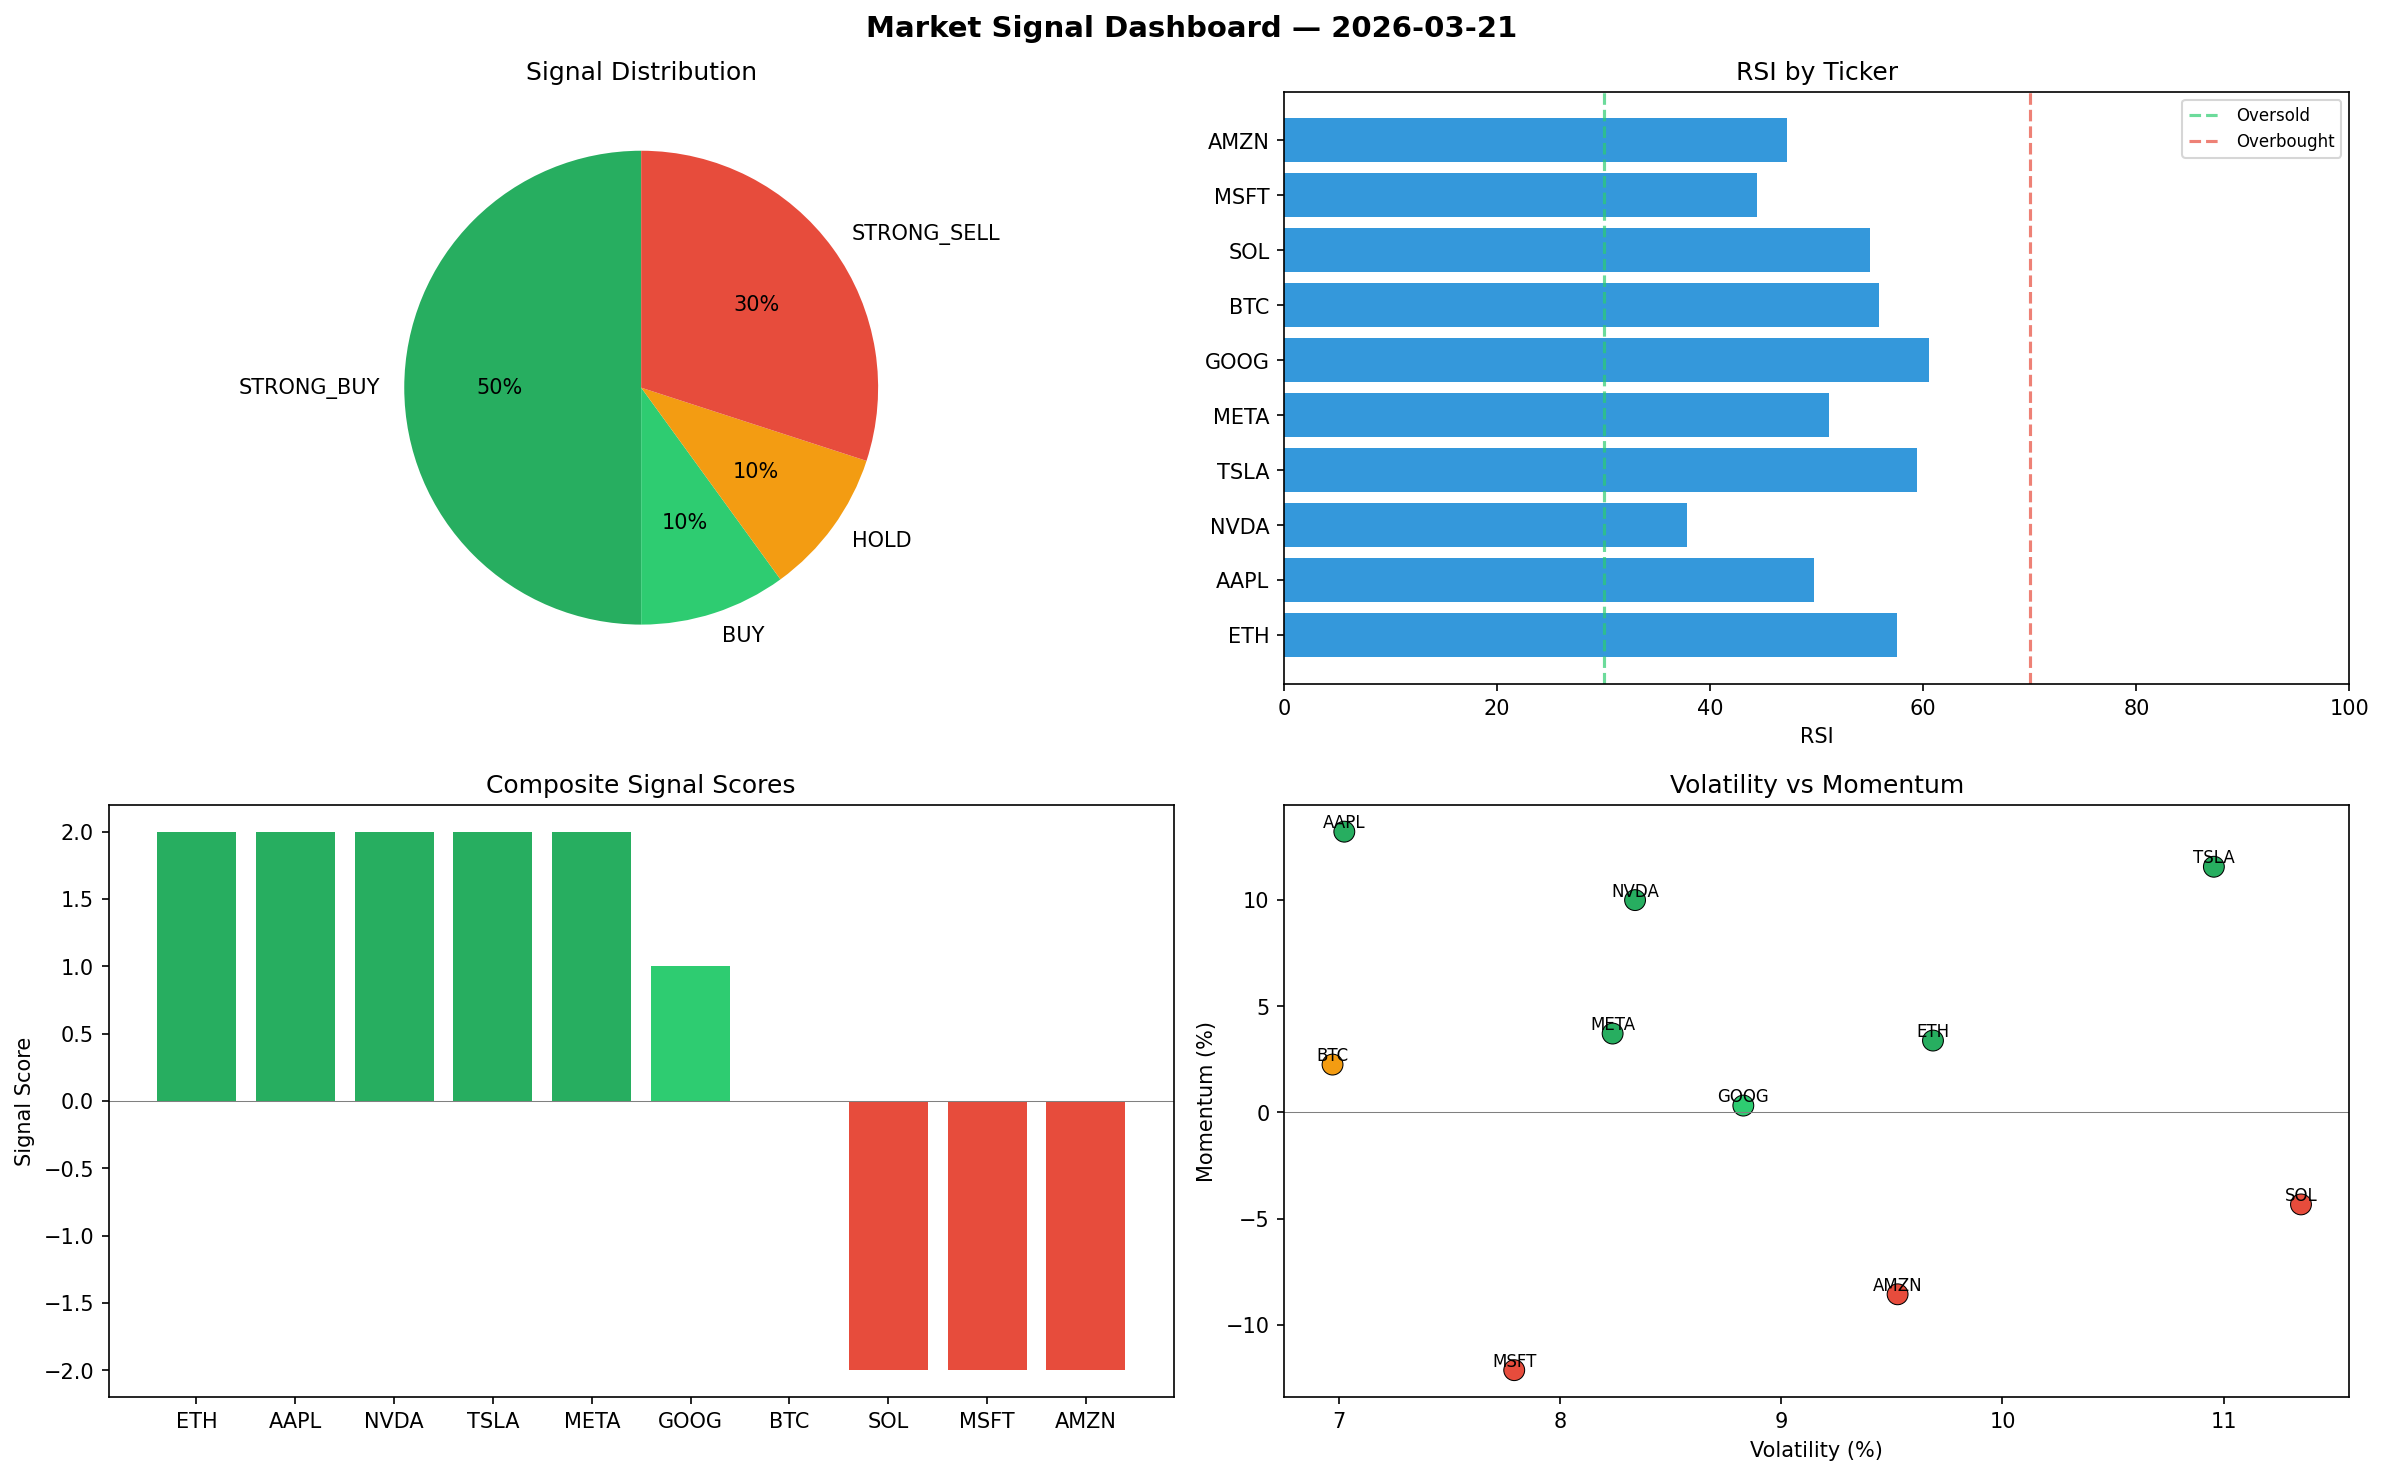
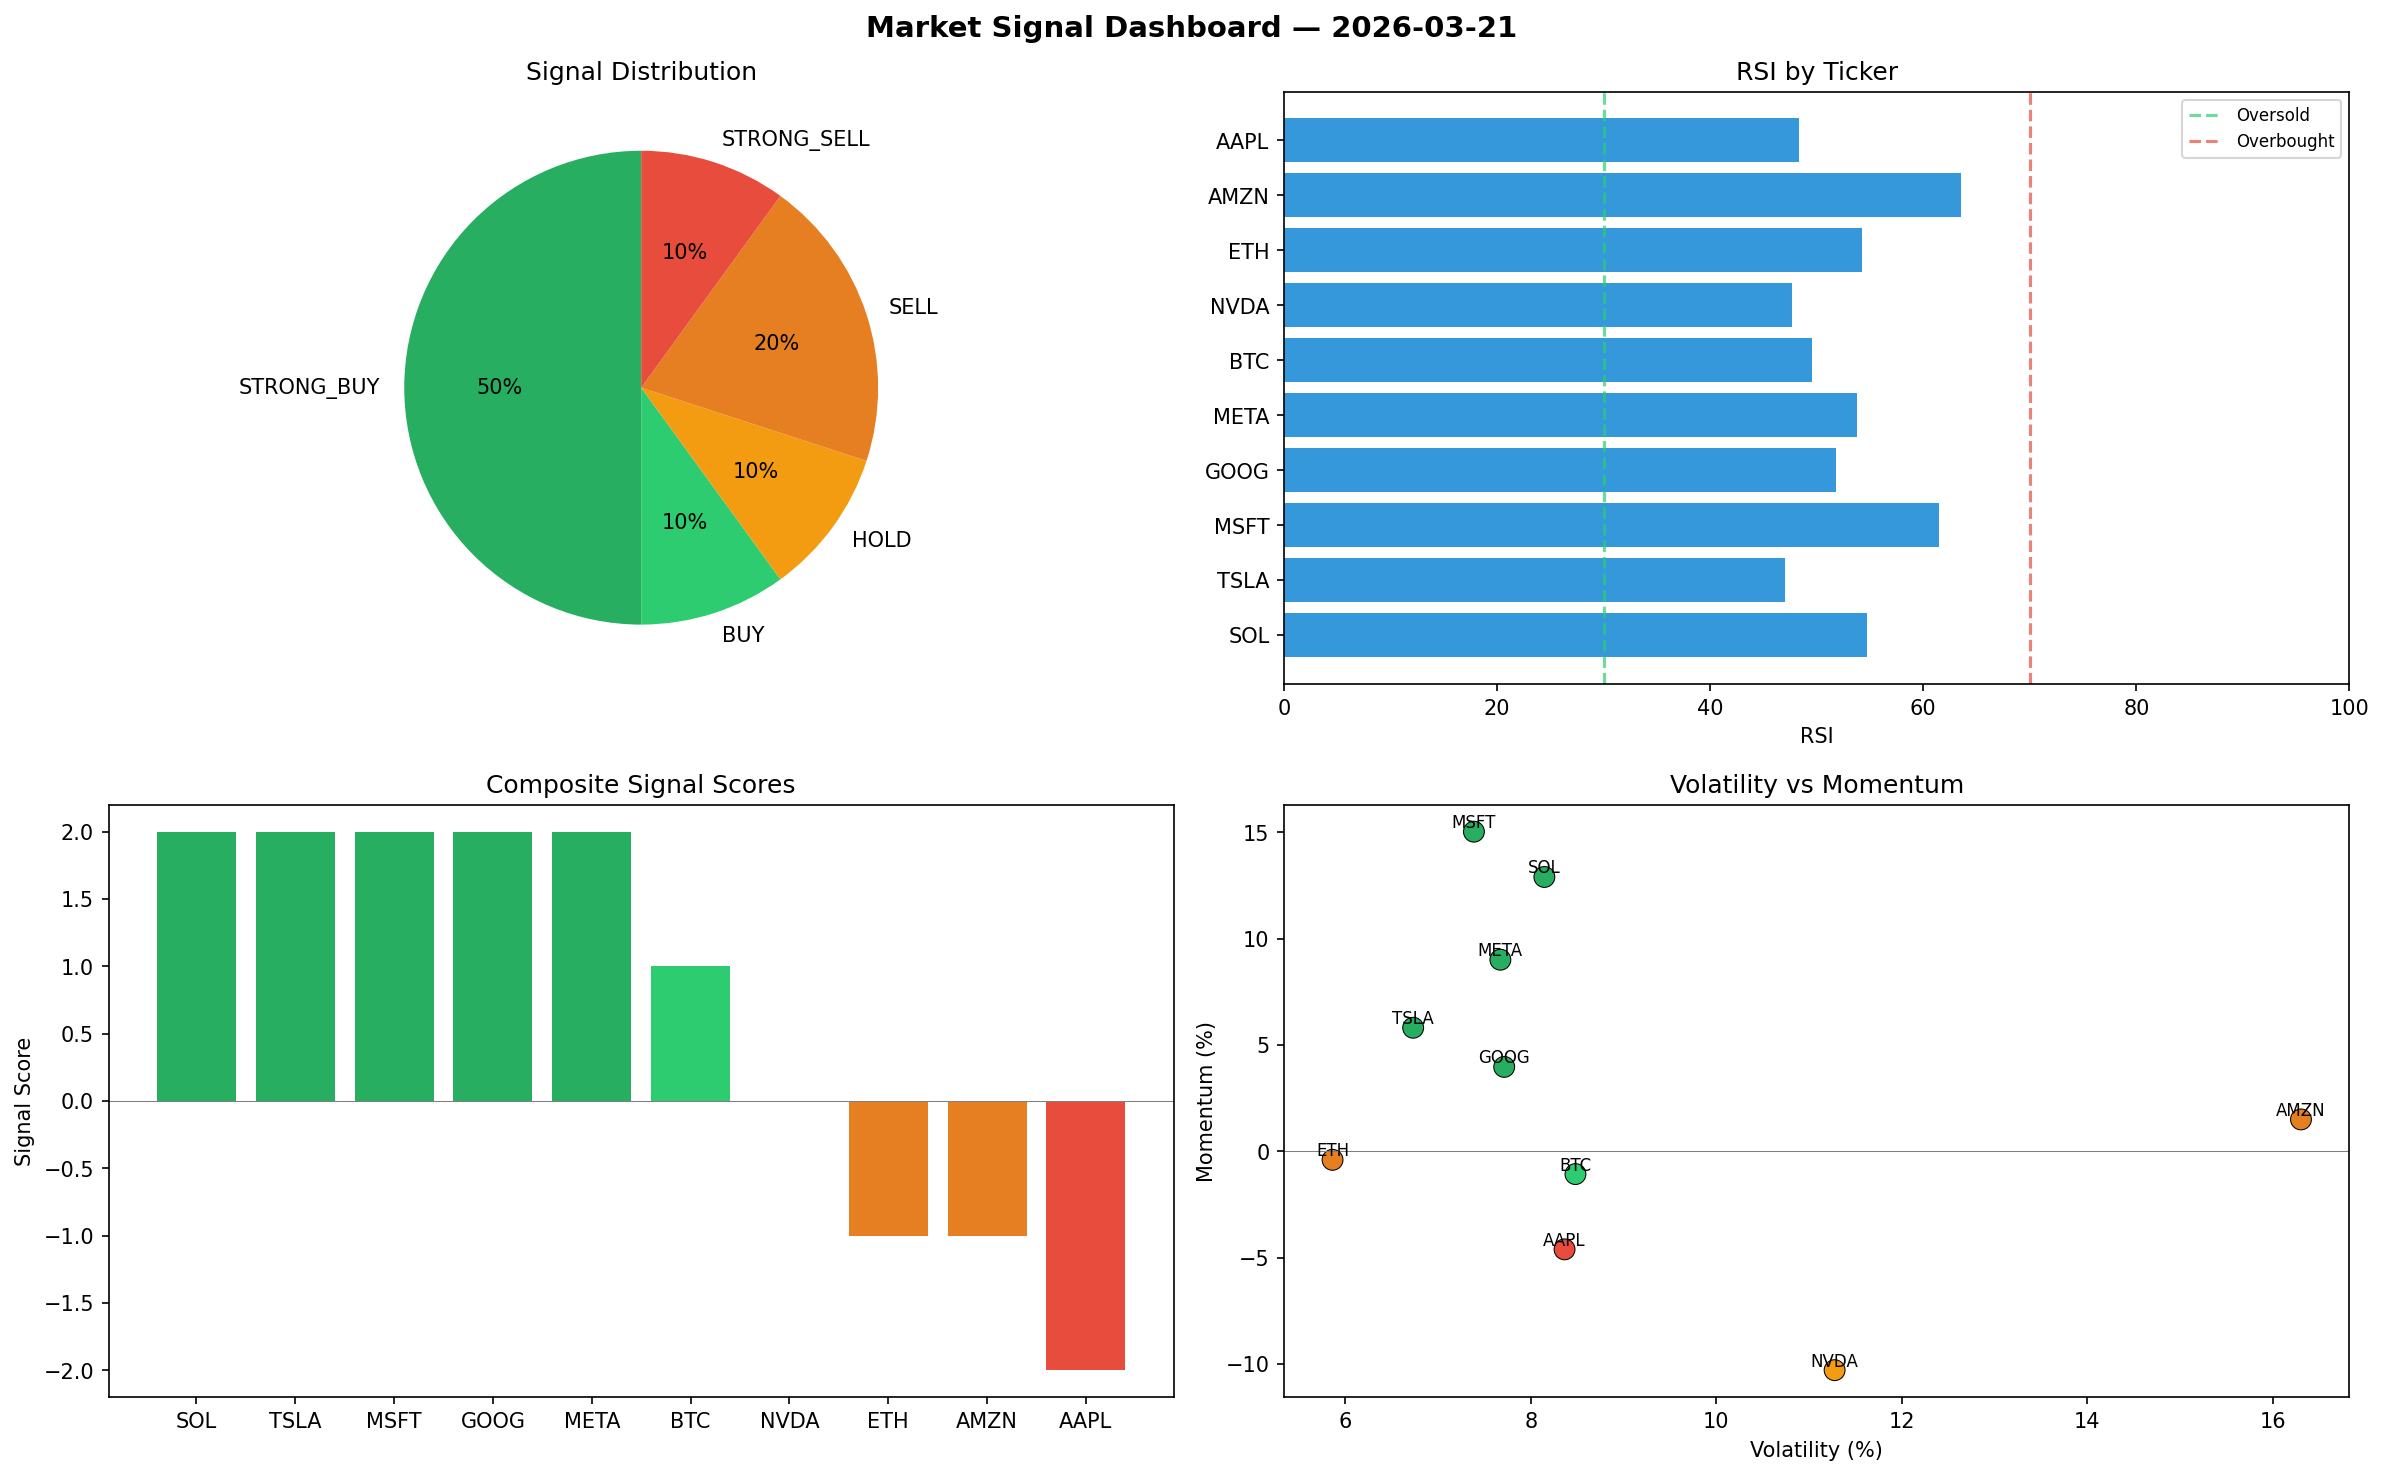
automated-bots: market signals 2026-03-21T08:55

diff --git a/logs/2026-03-21.md b/logs/2026-03-21.md
@@ -1,6 +1,6 @@
 # Market Signal Report — 2026-03-21
 
-**Run ID:** `24bfd2f5ed` | **Buy:** 6 | **Sell:** 3 | **Hold:** 1
+**Run ID:** `56ebf69966` | **Buy:** 6 | **Sell:** 3 | **Hold:** 1
 
 ![Dashboard](2026-03-21_dashboard.png)
 
@@ -8,28 +8,28 @@
 
 | Ticker | Price | Signal | Score | RSI | Momentum | Confidence |
 |--------|-------|--------|-------|-----|----------|------------|
-| ETH | $3134.5 | **STRONG_BUY** | 2 | 57.49 | 0.0338 | 0.5 |
-| AAPL | $4729.98 | **STRONG_BUY** | 2 | 49.71 | 0.1321 | 0.5 |
-| NVDA | $5071.31 | **STRONG_BUY** | 2 | 37.79 | 0.0999 | 0.5 |
-| TSLA | $1541.05 | **STRONG_BUY** | 2 | 59.37 | 0.1156 | 0.5 |
-| META | $1348.76 | **STRONG_BUY** | 2 | 51.12 | 0.0371 | 0.5 |
-| GOOG | $856.83 | **BUY** | 1 | 60.55 | 0.0032 | 0.25 |
-| BTC | $103.6 | **HOLD** | 0 | 55.82 | 0.0225 | 0.0 |
-| SOL | $3954.01 | **STRONG_SELL** | -2 | 55.0 | -0.0433 | 0.5 |
-| MSFT | $2660.95 | **STRONG_SELL** | -2 | 44.36 | -0.1213 | 0.5 |
-| AMZN | $2394.74 | **STRONG_SELL** | -2 | 47.19 | -0.0856 | 0.5 |
+| SOL | $5045.93 | **STRONG_BUY** | 2 | 54.75 | 0.129 | 0.5 |
+| TSLA | $3304.92 | **STRONG_BUY** | 2 | 47.02 | 0.0581 | 0.5 |
+| MSFT | $453.1 | **STRONG_BUY** | 2 | 61.44 | 0.1503 | 0.5 |
+| GOOG | $371.69 | **STRONG_BUY** | 2 | 51.77 | 0.0397 | 0.5 |
+| META | $1564.6 | **STRONG_BUY** | 2 | 53.81 | 0.0901 | 0.5 |
+| BTC | $4620.28 | **BUY** | 1 | 49.53 | -0.0107 | 0.25 |
+| NVDA | $3046.82 | **HOLD** | 0 | 47.72 | -0.1029 | 0.0 |
+| ETH | $835.75 | **SELL** | -1 | 54.24 | -0.004 | 0.25 |
+| AMZN | $3776.44 | **SELL** | -1 | 63.54 | 0.015 | 0.25 |
+| AAPL | $1588.97 | **STRONG_SELL** | -2 | 48.33 | -0.0461 | 0.5 |
 
 ## Delta vs Yesterday
 
 | Ticker | Today | Yesterday | Price Change | Signal Changed |
 |--------|-------|-----------|-------------|----------------|
-| ETH | STRONG_BUY | STRONG_BUY | 📉 -33.14% | — |
-| AAPL | STRONG_BUY | STRONG_BUY | 📈 752.62% | — |
-| NVDA | STRONG_BUY | HOLD | 📈 489.04% | ⚠ YES |
-| TSLA | STRONG_BUY | HOLD | 📉 -52.41% | ⚠ YES |
-| META | STRONG_BUY | HOLD | 📈 35.11% | ⚠ YES |
-| GOOG | BUY | HOLD | 📉 -74.22% | ⚠ YES |
-| BTC | HOLD | SELL | 📉 -97.57% | ⚠ YES |
-| SOL | STRONG_SELL | STRONG_BUY | 📉 -1.48% | ⚠ YES |
-| MSFT | STRONG_SELL | STRONG_SELL | 📈 74.91% | — |
-| AMZN | STRONG_SELL | STRONG_BUY | 📉 -54.02% | ⚠ YES |
+| SOL | STRONG_BUY | STRONG_BUY | 📈 25.72% | — |
+| TSLA | STRONG_BUY | HOLD | 📈 2.05% | ⚠ YES |
+| MSFT | STRONG_BUY | STRONG_SELL | 📉 -70.22% | ⚠ YES |
+| GOOG | STRONG_BUY | HOLD | 📉 -88.82% | ⚠ YES |
+| META | STRONG_BUY | HOLD | 📈 56.73% | ⚠ YES |
+| BTC | BUY | SELL | 📈 8.29% | ⚠ YES |
+| NVDA | HOLD | HOLD | 📈 253.89% | — |
+| ETH | SELL | STRONG_BUY | 📉 -82.17% | ⚠ YES |
+| AMZN | SELL | STRONG_BUY | 📉 -27.48% | ⚠ YES |
+| AAPL | STRONG_SELL | STRONG_BUY | 📈 186.42% | ⚠ YES |
